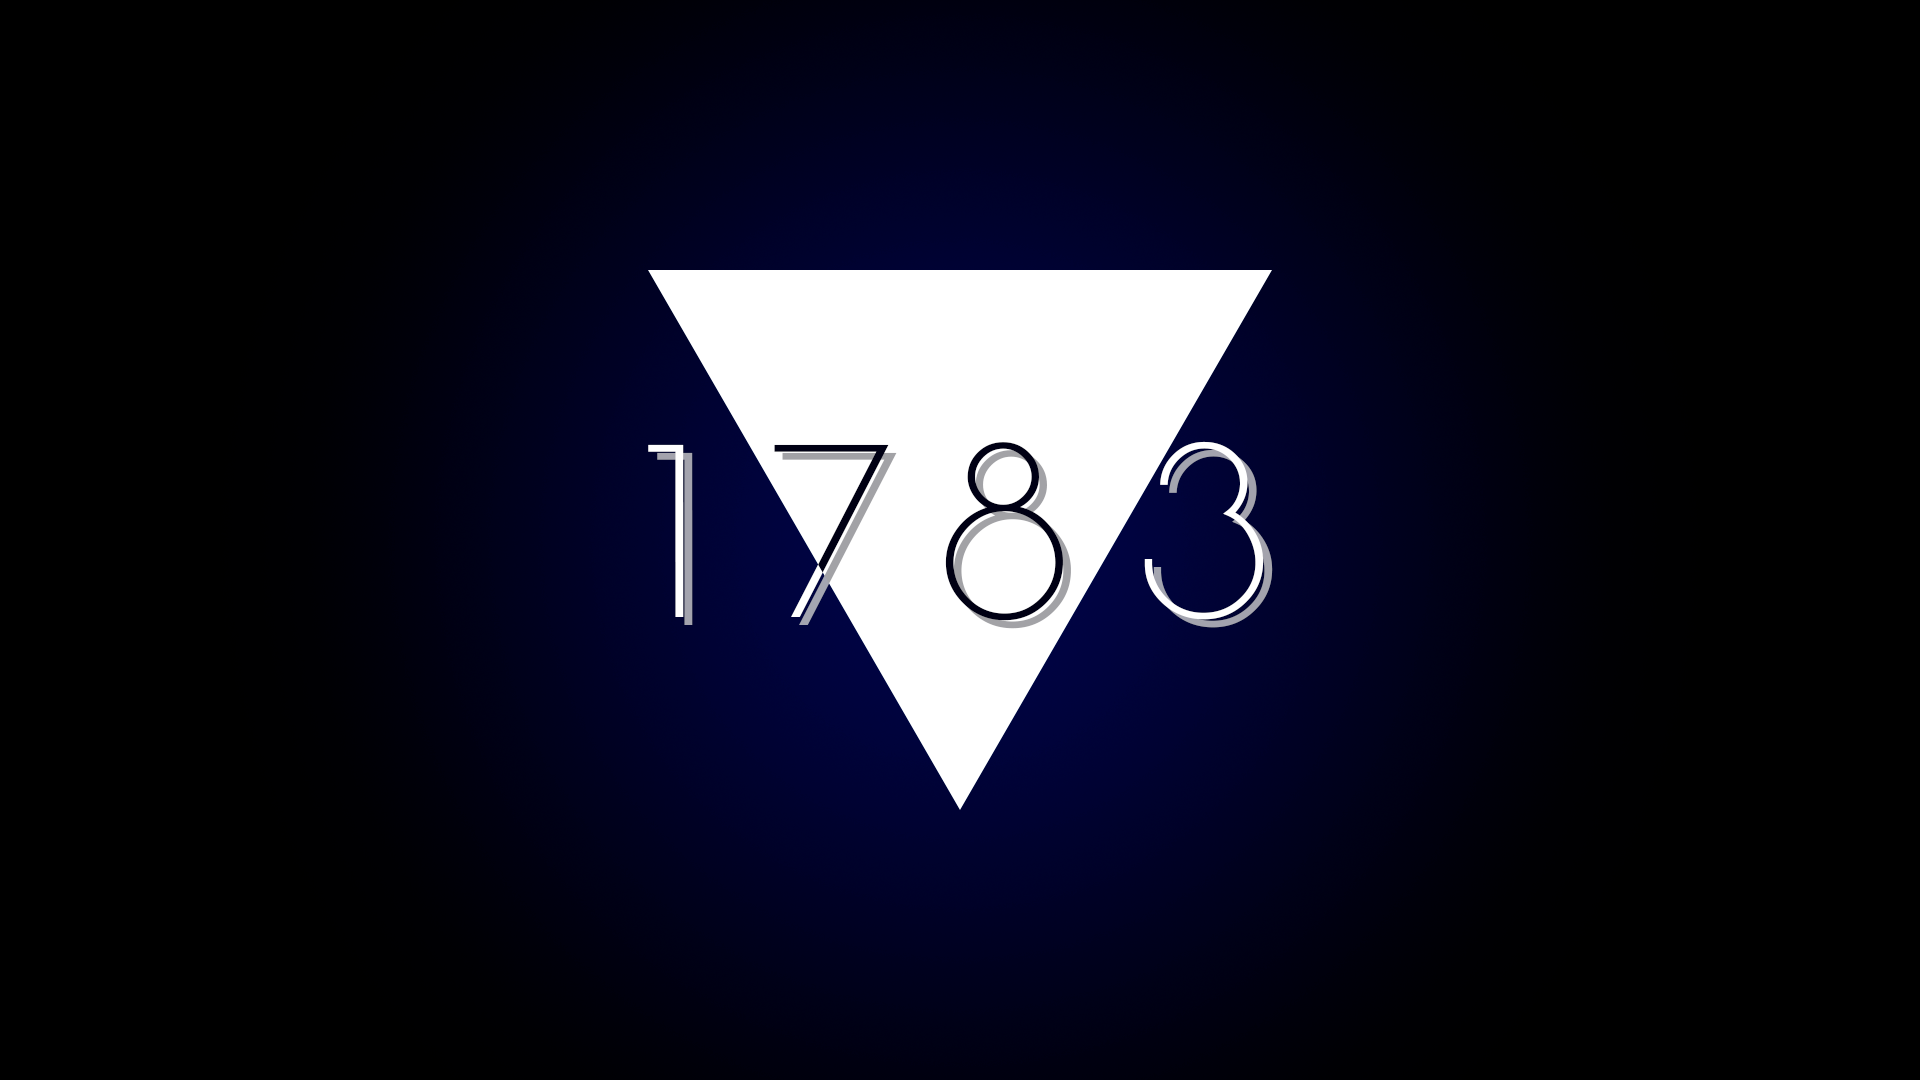
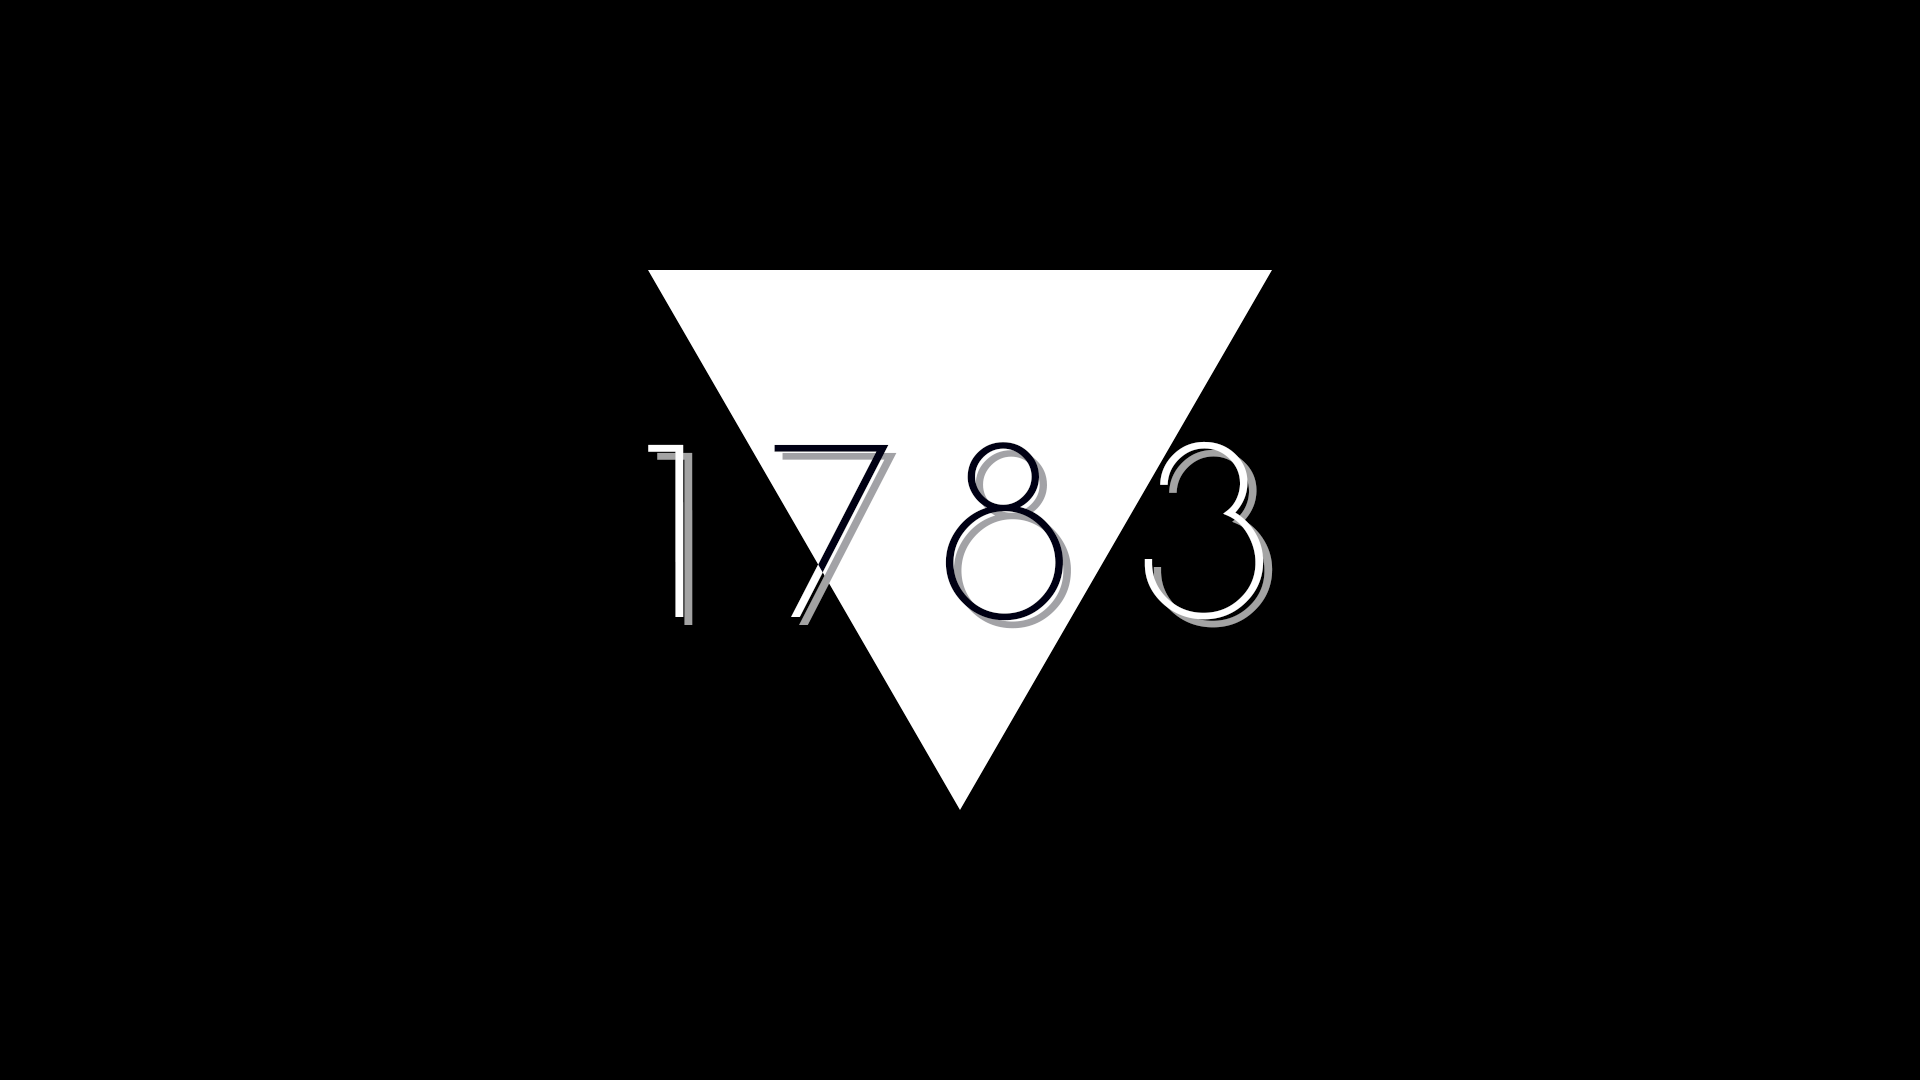
develop now in master

Changed region(s): [[0.25, 0.0611, 0.75, 0.9472]]

diff --git a/index.html b/index.html
@@ -1,19 +1,140 @@
+<!doctype html>
+<!--yooooo-->
 <html lang="en">
     <head>
-        <!-- Required meta tags -->
+    <!-- Required meta tags -->
         <meta charset="utf-8">
         <meta name="viewport" content="width=device-width, initial-scale=1, shrink-to-fit=no">
+
         <!-- Bootstrap CSS -->
         <link rel="stylesheet" href="https://stackpath.bootstrapcdn.com/bootstrap/4.1.3/css/bootstrap.min.css" integrity="sha384-MCw98/SFnGE8fJT3GXwEOngsV7Zt27NXFoaoApmYm81iuXoPkFOJwJ8ERdknLPMO" crossorigin="anonymous">
-        <!-- My commit -->
+
+        <!-- My Commit -->
         <link rel="stylesheet" href="style.css">
-        <title>1783studio</title>
+        <title>Hello, world!</title>
+
+        
     </head>
     <body>
+        <header class="container-fluid" id="header">
+            <div class="row">
+                <div class="logo col-lg-4 offset-lg-2">
+                    <span>1783STUDIO</span>
+                </div>
+                <nav class="nav justify-content-end col-lg-4">
+                    <a class="nav-link white active" href="#home">Home</a>
+                    <a class="nav-link white" href="#works">Works</a>
+                    <a class="nav-link white" href="#">About</a>
+                </nav>
+            </div>
+        </header>
+        <section id="home" class="container-fluid h-100">
+            <div class="row h-100 justify-content-center align-items-center"></div>
+        </section>
+        <section id="works" class="container-fluid pt-5 pb-5">
+            <div class="container justify-content-center">
+                <h1>Our Works</h1>
+                <div id="filtr" class="nav justify-content-center mb-3">
+                    <a class="nav-link" data-tag="html" href="javascript:void(0)">html/css</a>
+                    <a class="nav-link" data-tag="js" href="javascript:void(0)">javascript</a>
+                    <a class="nav-link" data-tag="cs" href="javascript:void(0)">c#</a>
+                    <a class="nav-link" data-tag="art" href="javascript:void(0)">arts</a>
+                </div>
+                <div id="all-cards" class="row justify-content-center">
+                    <div class="cardwrapper html col-lg-4">
+                        <div class="card shadow mb-4">
+                            <h6 class="card-header">Landing Page</h6>
+                            <img class="card-img-bottom" src="images/1.jpg" alt="Card image cap">
+                            <div class="card-body">
+                                <p class="card-text">One interessing landing page. I... I don't know what about i'm talking.</p>
+                                <span class="card-link">16.08.2018</span>
+                                <a href="#" class="card-link">mr.aleks756</a>
+                            </div>
+                        </div>
+                    </div>
+                    <div class="cardwrapper js col-lg-4">
+                        <div class="card shadow mb-4">
+                            <h6 class="card-header">Site</h6>
+                            <img class="card-img-bottom" src="images/2.jpg" alt="Card image cap">
+                            <div class="card-body">
+                                <p class="card-text">Some quick example text to build on the card title and make up the bulk of the card's content.</p>
+                                <span class="card-link">22.02.12</span>
+                                <a href="#" class="card-link">Autor</a>
+                            </div>
+                        </div>
+                    </div>
+                    <div class="cardwrapper art col-lg-4">
+                        <div class="card shadow mb-4">
+                            <h6 class="card-header">Site</h6>
+                            <img class="card-img-bottom" src="images/3.jpg" alt="Card image cap">
+                            <div class="card-body">
+                                <p class="card-text">Some quick example text to build on the card title and make up the bulk of the card's content.</p>
+                                <span class="card-link">22.02.12</span>
+                                <a href="#" class="card-link">Autor</a>
+                            </div>
+                        </div>
+                    </div>
+                    <div class="cardwrapper cs col-lg-4">
+                            <div class="card shadow mb-4">
+                                <h6 class="card-header">Coming soon...</h6>
+                                <img class="card-img-bottom" src="images/teaser.jpg" alt="Card image cap">
+                                <div class="card-body">
+                                    <p class="card-text">Now we don't have any c# projects. But not for long)</p>
+                                </div>
+                            </div>
+                        </div>
+                </div>
+            </div>
+        </section>
         <!-- Optional JavaScript -->
-        <!-- jQuery first, then Popper.js, then Bootstrap JS -->
-        <script src="https://code.jquery.com/jquery-3.3.1.slim.min.js" integrity="sha384-q8i/X+965DzO0rT7abK41JStQIAqVgRVzpbzo5smXKp4YfRvH+8abtTE1Pi6jizo" crossorigin="anonymous"></script>
+        <!-- sjQuery first, then Popper.js, then Bootstrap JS -->
+        <script src="https://code.jquery.com/jquery-3.3.1.min.js" integrity="sha256-FgpCb/KJQlLNfOu91ta32o/NMZxltwRo8QtmkMRdAu8=" crossorigin="anonymous"></script>
         <script src="https://cdnjs.cloudflare.com/ajax/libs/popper.js/1.14.3/umd/popper.min.js" integrity="sha384-ZMP7rVo3mIykV+2+9J3UJ46jBk0WLaUAdn689aCwoqbBJiSnjAK/l8WvCWPIPm49" crossorigin="anonymous"></script>
         <script src="https://stackpath.bootstrapcdn.com/bootstrap/4.1.3/js/bootstrap.min.js" integrity="sha384-ChfqqxuZUCnJSK3+MXmPNIyE6ZbWh2IMqE241rYiqJxyMiZ6OW/JmZQ5stwEULTy" crossorigin="anonymous"></script>
+        <script>            
+            $(function(){
+                var tag = "";
+                $('#filtr a').click(function(){
+                    $('#all-cards').fadeOut(200).delay(100);
+                    $('#filtr a').removeClass('active');
+                    $(this).addClass('active');
+                    tag = $(this).data('tag');
+                    $('.cardwrapper').not('.'+tag).delay(250).hide(0);
+                    $('.'+tag).delay(250).show(0);
+                    $('#all-cards').fadeIn(200);
+                })
+            })
+
+            window.onscroll = function() {
+                var getScr = $(document).scrollTop();
+                var Height = $('#home').height() - $('#header').height();
+                if (getScr >= Height)
+                {
+                    $('#header').css('background','#ffffff');
+                    $('#header').css('color','#000000');
+                    $('#header .nav-link').css('color','#000000');
+                    $('.white').addClass('black');
+                    $('.black').removeClass('white');
+                }
+                else {
+                    $('#header').css('background','#000000');
+                    $('#header').css('color','#ffffff');
+                    $('#header .nav-link').css('color','#ffffff');
+                    $('.black').addClass('white');
+                    $('.white').removeClass('black');
+                }
+            }
+
+            $(document).ready(function () {
+                $('#filtr a:first').trigger('click');
+                $("a").click(function () {
+                var elementClick = $(this).attr("href");
+                var destination = $(elementClick).offset().top;
+                $('html').animate({ scrollTop: destination }, 1000);
+                return false; 
+                });
+            });
+    </script>
+
     </body>
 </html>

diff --git a/style.css b/style.css
@@ -1,19 +1,94 @@
+@import url('https://fonts.googleapis.com/css?family=Poiret+One');
+
 *{
-    box-sizing: border-box;
     margin: 0;
     padding: 0;
 }
-html{
+html, body{
     height: 100%;
     width: 100%;
 }
-body{
-    height: 100%;
-    width: 100%;
-    background: url("images/background_mobile.png") center/cover;
+
+#header{
+    color: #ffffff;
+    position: fixed;
+    background: #000000;
+    transition: all 0.5s;
 }
-@media screen and (orientation: landscape){
-    body{
-        background: url("images/background.png") center/cover;
-    }     
+#home {
+    background: url(images/background.png);
+    background-attachment: fixed;
+    background-position: center;
+    background-repeat: no-repeat;
+    background-size: cover;
 }
+
+/* <WORKS> */
+    #works{
+        background: #ffffff;
+        min-height: 100%;
+    }
+    h1{
+        font-family: "Poiret One";
+        text-align: center;
+        margin-bottom: 1em;
+    }
+    .card{
+        text-align: center;
+        position: relative;
+        overflow: hidden;
+    }
+    .card-body{
+        position: absolute;
+        bottom: 0;
+        height: calc(100% - 1.4rem);
+        color: #ffffff;
+        background: rgba(0, 0, 0, 0.4);
+        transform: translateY(100%);
+        transition: transform 0.25s ease-in-out;
+    }
+    .card:hover>.card-body{
+        transform: translateY(0);
+    }
+    .card-header{
+        padding: 0.1rem 1rem;
+    }
+
+    #filtr .nav-link{
+        color: #aaaaaa;
+        text-decoration: underline dashed #aaaaaa;
+        transition: all 0.5s ease-in-out;
+    }
+    #filtr .active{
+        color: #000000;
+        text-decoration: underline dashed #000000;
+    }
+/* </WORKS> */
+
+/* NAV */
+    #header .nav-link{
+        height: 100%;
+        font-size: 18px;
+        -o-transition:.5s;
+        -ms-transition:.5s;
+        -moz-transition:.5s;
+        -webkit-transition:.5s;
+        transition: all 0.5s;
+        color: #ffffff;
+        }
+
+    #header .nav-link:focus{
+        border: none;
+        outline: none;
+    }
+    #header .white:hover{
+        border-bottom: 4px solid #ffffff;
+    }
+    #header .black:hover{
+        border-bottom: 4px solid #000000;
+    }
+    #header .logo{
+        font-family: 'Poiret One';
+        font-size: 34px;
+    }
+/* NAV */

diff --git a/README.md b/README.md
@@ -1,2 +1,2 @@
-# 1783studio.github.io
-HTML-page for my works
+# de-ut.github.io
+1783studio project
